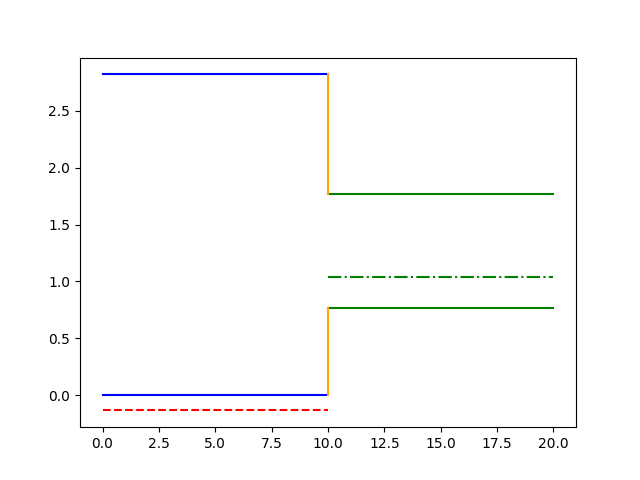
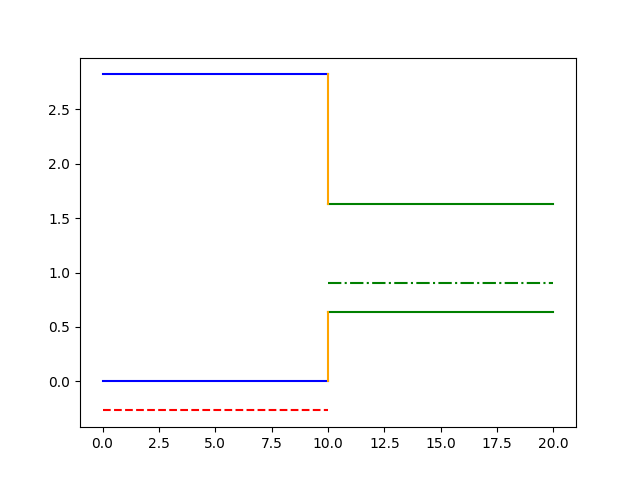
commit changes

diff --git a/pame/KronigPenney/model.py b/pame/KronigPenney/model.py
@@ -95,13 +95,21 @@ class Model(object):
         methods = ['classic', 'classic_simple', 'shch', 'shch_simple']
         if method in methods:
             if method == 'classic':
-                print(f'Kronig-Penney classic model: {self._dichotomy(f=self._cp, a=-0.3, b=0, k=level)}')
+                e_level = self._dichotomy(f=self._cp, a=-0.3, b=0, k=level)
+                print(f'Kronig-Penney classic model: {e_level}')
+                return e_level
             elif method == 'classic_simple':
-                print(f'Kroning-Penney classic simple: {self._dichotomy(f=self._cp_simply, a=-0.3, b=0, k=level)}')
+                e_level = self._dichotomy(f=self._cp_simply, a=-0.3, b=0, k=level)
+                print(f'Kroning-Penney classic simple: {e_level}')
+                return e_level
             elif method == 'shch':
-                print(f'Kroning-Penney shch model: {self._dichotomy(f=self._cp_shch, a=-0.3, b=0, k=level)}')
+                e_level = self._dichotomy(f=self._cp_shch, a=-0.3, b=0, k=level)
+                print(f'Kroning-Penney shch model: {e_level}')
+                return e_level
             elif method == 'shch_simple':
-                print(f'Kroning-Penney shch simple: {self._dichotomy(f=self._cp_shch_simpy, a=-0.3, b=0, k=level)}')
+                e_level = self._dichotomy(f=self._cp_shch_simpy, a=-0.3, b=0, k=level)
+                print(f'Kroning-Penney shch simple: {e_level}')
+                return e_level
         else:
             raise CantMatchMethod(message=method, methods=methods)
 

diff --git a/examples/ControlWork2019/task5.py b/examples/ControlWork2019/task5.py
@@ -1,17 +1,24 @@
 """
 Рассчитайте разрывы зон и изобразите схематически гетероструктуру ZnSe-GaSb.
 ZnSe(a=5.67A, Eg=2.82eV, epsilon=5.9), GaSb(a=6.9A, Eg=0.73eV, epsilon=14.4)
+
+Рассчитать уровни энергии электронов и тяжелых дырок в сверхрешетке на базе
+такой гетероструктуры, если толщина слоев ZnSe=5нм, а GaSb=7нм
 """
 from pame.HeteroStructure.Calculation import *
+from pame.KronigPenney.model import Model
 
 
 # if __name__ == 'main':
 def run():
+    ZnSe_width, GaSb_width = 5e-9, 7e-9
     GaSb = SemiCond(name='GaSb', lattice=6.9 * 10**-8, epsilon=14.4, E_g=0.73, spin_orbital_splitting=0.80)
-    ZnSe = SemiCond(name='ZnSe', lattice=5.67 * 10**-8, epsilon=5.9, E_g=2.82, spin_orbital_splitting=0.4)
+    ZnSe = SemiCond(name='ZnSe', lattice=5.67 * 10**-8, epsilon=5.9, E_g=2.82, spin_orbital_splitting=0.80)
 
     path = 'examples/ControlWork2019/'
     delta_E_c, delta_E_v = process_heterostructure(wide_band=ZnSe,
                                                    slim_band=GaSb,
                                                    path=path)
 
+    energy_e = Model(m=0.041, u0=delta_E_c, a=ZnSe_width, b=GaSb_width).calculate_energy_levels()
+    model_heavy_d = Model(m=0.4, u0=delta_E_v, a=ZnSe_width, b=GaSb_width)

diff --git a/pame/JFET/calculations.py b/pame/JFET/calculations.py
@@ -21,7 +21,7 @@ def volt_amper_characteristics(I_p: float, path, ug: np.array, vp: float) -> Non
         res = I_p * (3 * ud / vp - 2 * ((ud + ug) ** 1.5) / (vp ** 1.5) - (ug / vp) ** 1.5)
         return res
 
-    ud = np.linspace(0, vp, 1000)
+    ud = np.linspace(0, vp*1.1, 1000)
 
     for i in range(len(ug)):
         Id_array = []
